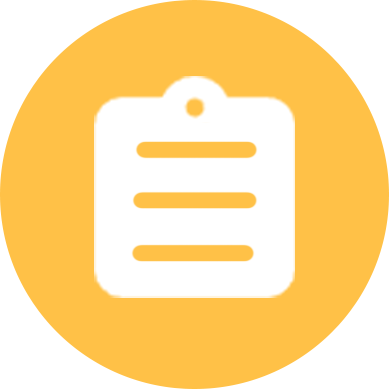
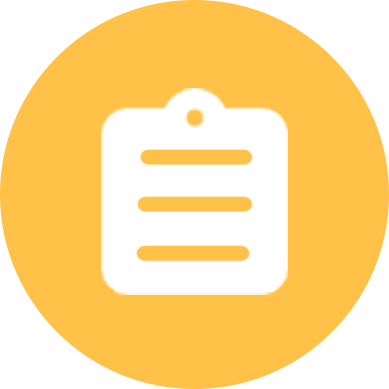
primitive list button and area

diff --git a/src/frontend/react/src/pages/spots/Spots.tsx b/src/frontend/react/src/pages/spots/Spots.tsx
@@ -10,6 +10,8 @@ import './spots.css';
 import Sort_Spots from '../../components/spots/Sort_Spots';
 import FilterCheckbox from '../../components/spots/FilterCheckbox_Spots';
 import SpotCard_PopUp from '../../components/spots/SpotsCard_PopUp';
+import List from '../../components/List';
+import Btn_List from '../../components/Btn_List';
 
 const Spots: React.FC = () => {
   const [activeSpot, setActiveSpot] = useState(null);
@@ -22,6 +24,7 @@ const Spots: React.FC = () => {
   const [categories, setCategories] = useState([]);
   const [searchTerm, setSearchTerm] = useState('');
   const [popupSpot, setPopupSpot] = useState(null);
+  const [showList, setShowList] = useState(false); // State to control visibility of List component
   const batchSize = 6;
 
   const handleExpand = useCallback((spot) => {
@@ -32,6 +35,8 @@ const Spots: React.FC = () => {
     setActiveSpot(null);
   }, []);
 
+
+  // fecth data from backend api 
   const fetchSpots = useCallback(() => {
     setLoading(true); 
     let url = `http://localhost:8080/attractions/filter?sortBy=${sortOption}`;
@@ -65,10 +70,12 @@ const Spots: React.FC = () => {
     fetchSpots();
   }, [sortOption, isFree, categories, searchTerm, fetchSpots]);
 
+  // isFree switch
   const handleSwitchChange = useCallback(() => {
     setIsFree(!isFree);
   }, [isFree]);
 
+  // load more spots when scrolling
   const loadMoreSpots = useCallback(() => {
     if (loading) return;
     setLoading(true);
@@ -102,28 +109,38 @@ const Spots: React.FC = () => {
     setPopupSpot(spot);
   }, []);
 
+  // Handle button click to show List component
+  const handleBtnListClick = () => {
+    setShowList(true);
+  };
+
+  // Handle close button click to hide List component
+  const handleCloseList = () => {
+    setShowList(false);
+  };
+
   return (
     <div style={{ display: 'flex' }}>
-      <div className="left" 
+      <div 
       style={{ width: LEFT_WIDTH, 
-        padding: '18px 30px 0px 30px', 
+        padding: '18px 1.2vw 0px 1.2vw', 
         marginTop: NAVBAR_HEIGHT, 
         height: `calc(100vh - ${NAVBAR_HEIGHT})`, 
         display: 'flex', 
         flexDirection: 'column', 
         overflowY: 'hidden' }}>
+
         {!activeSpot && (
           <>
             <Stack direction="row" justifyContent="center">
               <Searchbar onSearch={handleSearch} />
             </Stack>
-            <Stack direction="row" sx={{ paddingX: 2, paddingTop: 2, justifyContent: 'space-between', alignItems: 'center' }}>
+            <Stack direction="row" sx={{ paddingX: 1, paddingTop: 2, justifyContent: 'space-between', alignItems: 'center' }}>
               <FilterCheckbox onChange={handleCategoryChange} />
               <FreeSwitch checked={isFree} onChange={handleSwitchChange} />
               <Sort_Spots value={sortOption} onChange={handleSortChange} />
             </Stack>
-
-            <h2 style={{marginLeft:15,marginTop:10}}>{spots.length} spots</h2>
+            <h2 style={{marginLeft:10,marginTop:10}}>{spots.length} spots</h2>
           </>
         )}
 
@@ -131,7 +148,7 @@ const Spots: React.FC = () => {
           {activeSpot ? (
             <SpotDetail spot={activeSpot} onCollapse={handleCollapse} />
           ) : (
-            <Box sx={{ display: 'flex', flexWrap: 'wrap', justifyContent: 'space-between', gap: 3, paddingY: 0, paddingX: 2 }}>
+            <Box sx={{ display: 'flex', flexWrap: 'wrap', justifyContent: 'space-between', gap:1.5,  paddingY: 0  }}>
               {loading ? (
                 <div>Loading...</div> 
               ) : (
@@ -153,6 +170,7 @@ const Spots: React.FC = () => {
           )}
         </div>
       </div>
+
       <div className="map" style={{ position: 'fixed', top: NAVBAR_HEIGHT, right: 0, width: `calc(100% - ${LEFT_WIDTH})`, height: `calc(100vh - ${NAVBAR_HEIGHT})`, overflowY: 'auto' }}>
         <Map events={spots} onMarkerClick={handleMarkerClick} /> 
         {popupSpot && (
@@ -168,6 +186,11 @@ const Spots: React.FC = () => {
           />
         )}
       </div>
+    
+      {!showList && <Btn_List onClick={handleBtnListClick} />}
+
+   
+      {showList && <List onClose={handleCloseList} />}
     </div>
   );
 };

diff --git a/src/frontend/react/src/pages/events/Events.tsx b/src/frontend/react/src/pages/events/Events.tsx
@@ -74,7 +74,7 @@ const [hoveredEventId, setHoveredEventId] = useState(null);
         className="left"
         style={{
           width: LEFT_WIDTH,
-          padding: '18px 30px 0px 30px',
+          padding: '18px 20px 0px 20px',
           marginTop: NAVBAR_HEIGHT,
           height: `calc(100vh - ${NAVBAR_HEIGHT})`,
           display: 'flex',
@@ -88,7 +88,7 @@ const [hoveredEventId, setHoveredEventId] = useState(null);
         </Stack>
 
         {/* -------------- filter & sort -------------------*/}
-        <Stack direction="row" justifyContent="space-between" alignItems="center" spacing={2} sx={{ width: '100%', marginTop: 2 }}>
+        <Stack direction="row" justifyContent="space-between" alignItems="center" spacing={2} sx={{  marginTop: 2 }}>
           <FilterCheckbox onChange={handleCategoryChange} selectedCategories={selectedCategories} />
           <Switch checked={isFree} onChange={handleSwitchChange} />
           {/* <Sort_Events /> */}
@@ -116,6 +116,8 @@ const [hoveredEventId, setHoveredEventId] = useState(null);
       <div className="map" style={{ position: 'fixed', top: NAVBAR_HEIGHT, right: 0, width: `calc(100% - ${LEFT_WIDTH})`, height: `calc(100vh - ${NAVBAR_HEIGHT})` }}>
         <Map events={events} hoveredEventId={hoveredEventId}/>
       </div>
+
+      
     </div>
   );
 };

diff --git a/src/frontend/react/src/theme.ts b/src/frontend/react/src/theme.ts
@@ -3,10 +3,12 @@ import { createTheme, ThemeOptions } from '@mui/material/styles';
 
 
 const theme = createTheme({
+
+  // -----------------------------------  color -----------------------------------
   palette: {
     primary: {
       main: '#ffc147',  //yellow
-      light:'#fbd589',
+      light:'#ffce65',
       dark:'#faa134',
 
     },
@@ -21,6 +23,9 @@ const theme = createTheme({
       main: '#132956',  //darkblue
     },
   },
+
+  // -----------------------------------  typography  --------------------------------
+
   typography: {
     fontFamily: 'Roboto, Arial, sans-serif',
     h1: {
@@ -30,8 +35,8 @@ const theme = createTheme({
   
     cardTitle: {
       // fontFamily: 'Arial, sans-serif',
-      fontSize: '1.15rem',
-      fontWeight: 500,
+      fontSize: '1.12rem',
+      fontWeight: 450,
       // color: '#111',
     },
 
@@ -51,6 +56,17 @@ const theme = createTheme({
 
   },
   
+ // -----------------------------------  breakpoints for screens withe different sizes  --------------------------------
+
+  breakpoints: {
+    values: {
+      xs: 0,
+      sm: 600,
+      md: 960,
+      lg: 1280,
+      xl: 1920,
+    },
+  },
 } as ThemeOptions);
 
 export default theme;

diff --git a/src/frontend/react/src/components/Header.tsx b/src/frontend/react/src/components/Header.tsx
@@ -44,18 +44,14 @@ const Header: React.FC = () => {
         zIndex: 1000,
         paddingRight: '5%',
         paddingLeft: '2%',
-        // borderTop: `1px solid ${theme.palette.primary.main}`  
+        // borderTop: `1px solid ${theme.palette.primary.light}`, 
       }}
     >
-
       {/* --------------------------logo------------------------ */}
 
       <Link to="/" className="logo" style={{ color: theme.palette.primary.dark }}>
         Hello,World
       </Link>
-
-
-
 
       {/* ---------------3 buttons  & date range picker------------------ */}
 
@@ -90,13 +86,9 @@ const Header: React.FC = () => {
         <DateRangePicker />
       </Stack>
 
-
       {/* -----------------  about & account ------------------ */}
       
       <Stack direction="row" spacing={3} alignItems="center">
-
-      {/* <Button variant="outlined" onClick={() => navigate('/about')} style={{color: theme.palette.primary.dark,borderRadius:20,borderColor: theme.palette.primary.dark, padding: '2px 15px'} } >About</Button> */}
-
         <AccountCircleRoundedIcon style={{ color: theme.palette.primary.dark, fontSize: 28 }} />
       </Stack>
     </Box>

diff --git a/src/frontend/react/src/components/List.tsx b/src/frontend/react/src/components/List.tsx
@@ -1,24 +1,36 @@
 import React from 'react';
-import { Box } from '@mui/material';
+import { Box, IconButton } from '@mui/material';
+import CloseIcon from '@mui/icons-material/Close'; // Import close icon
 
-const List = () => {
+const List = ({ onClose }) => {
   return (
     <Box
       sx={{
         width: '19vw',
         height: '55vh',
-        marginTop:'20vh',
-        marginLeft: '4px',
-        backgroundColor:'white',
+        marginTop: '70px',
+        marginLeft: '10px',
+        backgroundColor: 'white',
         borderRadius: '12px',
-        boxShadow: 2,
-        zIndex:1000,
+        boxShadow: 3,
+        zIndex: 1000,
+        position: 'relative' // Ensure close button is positioned relative to this box
       }}
     >
-
-    
+      <IconButton
+        sx={{
+          position: 'absolute',
+          top: '8px',
+          right: '8px',
+          zIndex: 1001,
+        }}
+        onClick={onClose} // Handle close button click
+      >
+        <CloseIcon />
+      </IconButton>
+      {/* Add your list content here */}
     </Box>
   );
-}
+};
 
 export default List;

diff --git a/src/frontend/react/src/components/spots/SpotCard.tsx b/src/frontend/react/src/components/spots/SpotCard.tsx
@@ -50,8 +50,9 @@ const SpotCard: React.FC<SpotCardProps> = ({ image1, image3, title, rating,categ
       borderRadius: '8px',
       overflow: 'hidden',
       boxShadow: '0 2px 3px rgba(0, 0, 0, 0.15)',
-      width: "47%",
-      marginBottom: 2
+      width: "17.8vw",
+      marginBottom: 2,
+      marginX:1
     }}>
 
 
@@ -116,15 +117,6 @@ const SpotCard: React.FC<SpotCardProps> = ({ image1, image3, title, rating,categ
 </span>
 </Stack>
 
-
-        {/* ---------------------   price  ---------------------- */}
-
-{/* <Box display="flex" alignItems="center" >
-      
-          <Typography variant="body2" color="text.secondary">
-           from   {price } per adult
-          </Typography>
-        </Box> */}
 
         
   {/* ---------------------   two buttons  ---------------------- */}

diff --git a/src/frontend/react/src/components/Btn_List.tsx b/src/frontend/react/src/components/Btn_List.tsx
@@ -1,7 +1,7 @@
 import React from 'react';
 import { Box } from '@mui/material';
 
-const Btn_List = () => {
+const Btn_List = ({ onClick }) => {
   return (
     <Box
       sx={{
@@ -10,11 +10,13 @@ const Btn_List = () => {
         left: '44vw',
         transform: 'translate(-50%, -50%)',
         zIndex: 10000,
-        boxShadow: 4, // 使用 MUI 的 boxShadow 属性
-        borderRadius: '50px' // 可选，添加圆角
+        boxShadow: 4, 
+        borderRadius: '50px',
+        cursor: 'pointer' // Add cursor pointer for better UX
       }}
+      onClick={onClick} // Handle button click
     >
-      <img src="images/note.png" width="50px" height="50px" alt="list icon" />
+      <img src="images/note4.png" width="50px" height="50px" alt="list icon" />
     </Box>
   );
 };

diff --git a/src/frontend/react/src/pages/spots/spots.css b/src/frontend/react/src/pages/spots/spots.css
@@ -1,26 +1,7 @@
-.left {
-  width: LEFT_WIDTH;
-  padding: 18px 30px 0px 30px;
-  margin-top: NAVBAR_HEIGHT;
-  height: calc(100vh - NAVBAR_HEIGHT);
-  display: flex;
-  flex-direction: column;
-  overflow-y: auto;
-  scrollbar-width: none; /* Firefox */
-  -ms-overflow-style: none;  /* Internet Explorer 10+ */
-}
-
-.left::-webkit-scrollbar {
-  display: none; /* Safari and Chrome */
-}
 
 .spot-card-container {
   flex-grow: 1;
   overflow-y: auto;
   -ms-overflow-style: none;  /* Internet Explorer 10+ */
   scrollbar-width: none;  /* Firefox */
-}
-
-.spot-card-container::-webkit-scrollbar {
-  display: none;  /* Safari and Chrome */
 }

diff --git a/src/frontend/react/src/components/events/EventCard.tsx b/src/frontend/react/src/components/events/EventCard.tsx
@@ -59,14 +59,14 @@ const EventCard = ({ event, onMouseEnter, onMouseLeave }) => {
           />
         </Box>
 
-        <Box sx={{ marginLeft: '30px', flexGrow: 1 }}>
+        <Box sx={{ marginLeft: '20px', flexGrow: 1 }}>
           <Typography
             sx={{
               ...theme.typography.cardTitle,
               whiteSpace: isExpanded ? 'normal' : 'nowrap',
               overflow: 'hidden',
               textOverflow: isExpanded ? 'clip' : 'ellipsis',
-              maxWidth: '350px',
+              maxWidth: '22vw',
               display: 'inline-block',
             }}
             component="div"

diff --git a/src/frontend/react/src/components/events/FilterCheckbox_Events.tsx b/src/frontend/react/src/components/events/FilterCheckbox_Events.tsx
@@ -56,7 +56,7 @@ const FilterCheckbox = ({ onChange, selectedCategories }) => {
 
       {/*------------------------ checkbox----------------------- */}
       {open && (
-        <Box ref={ref} sx={{ boxShadow: 1, p: 1, borderRadius: 1, backgroundColor: '#fff', top: '145px', left: '15px', position: 'absolute', zIndex: 1000 }}>
+        <Box ref={ref} sx={{ boxShadow: 4, p: 1, borderRadius: 1, backgroundColor: '#fff', top: '145px', left: '8px', position: 'absolute', zIndex: 1000 }}>
           <FormGroup
             sx={{
               display: 'grid',

diff --git a/src/frontend/react/src/components/spots/FilterCheckbox_Spots.tsx b/src/frontend/react/src/components/spots/FilterCheckbox_Spots.tsx
@@ -65,7 +65,7 @@ const FilterCheckbox = ({ onChange }) => {
       </Stack>
 
       {open && (
-        <Box ref={ref} sx={{ boxShadow: 1, p: 1, borderRadius: 1, backgroundColor: '#fff', top: '155px', left: '25px', position: 'absolute', zIndex: 1000 }}>
+        <Box ref={ref} sx={{ boxShadow: 4, p: 1, borderRadius: 1, backgroundColor: '#fff', top: '145px', left: '25px', position: 'absolute', zIndex: 1000 }}>
           <FormGroup
             sx={{
               display: 'grid',

diff --git a/src/frontend/react/src/components/events/Searchbar.tsx b/src/frontend/react/src/components/events/Searchbar.tsx
@@ -32,7 +32,7 @@ const Searchbar = ({ onSearch }) => {
           ),
         }}
         sx={{
-          width: '400px',
+          width: '25vw',
           height: '32px',
           '& .MuiOutlinedInput-root': {
             borderRadius: '20px',
